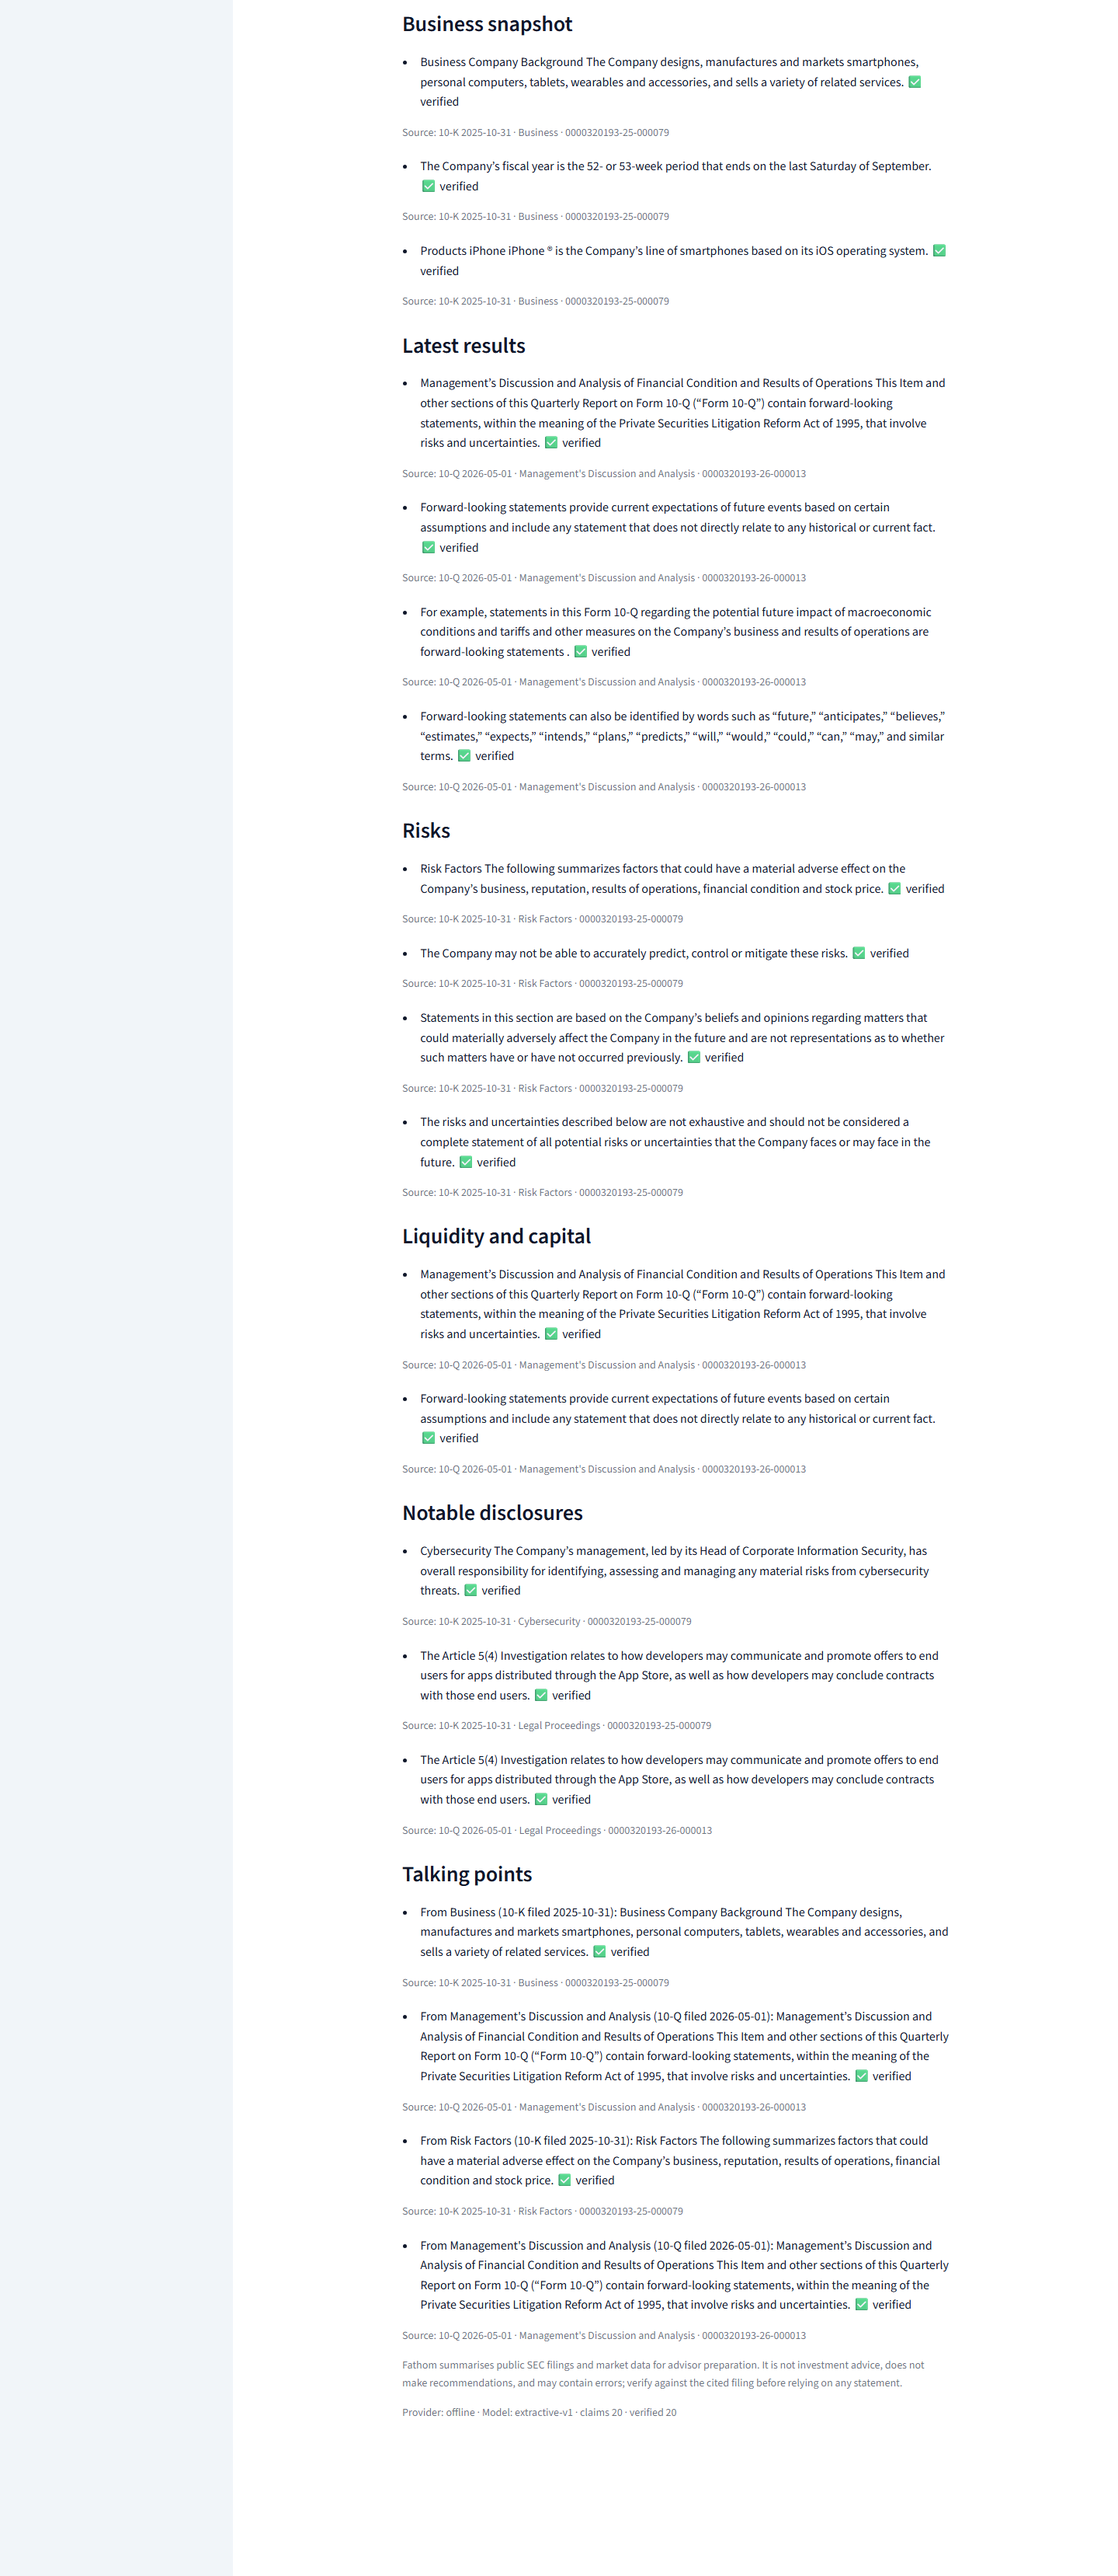
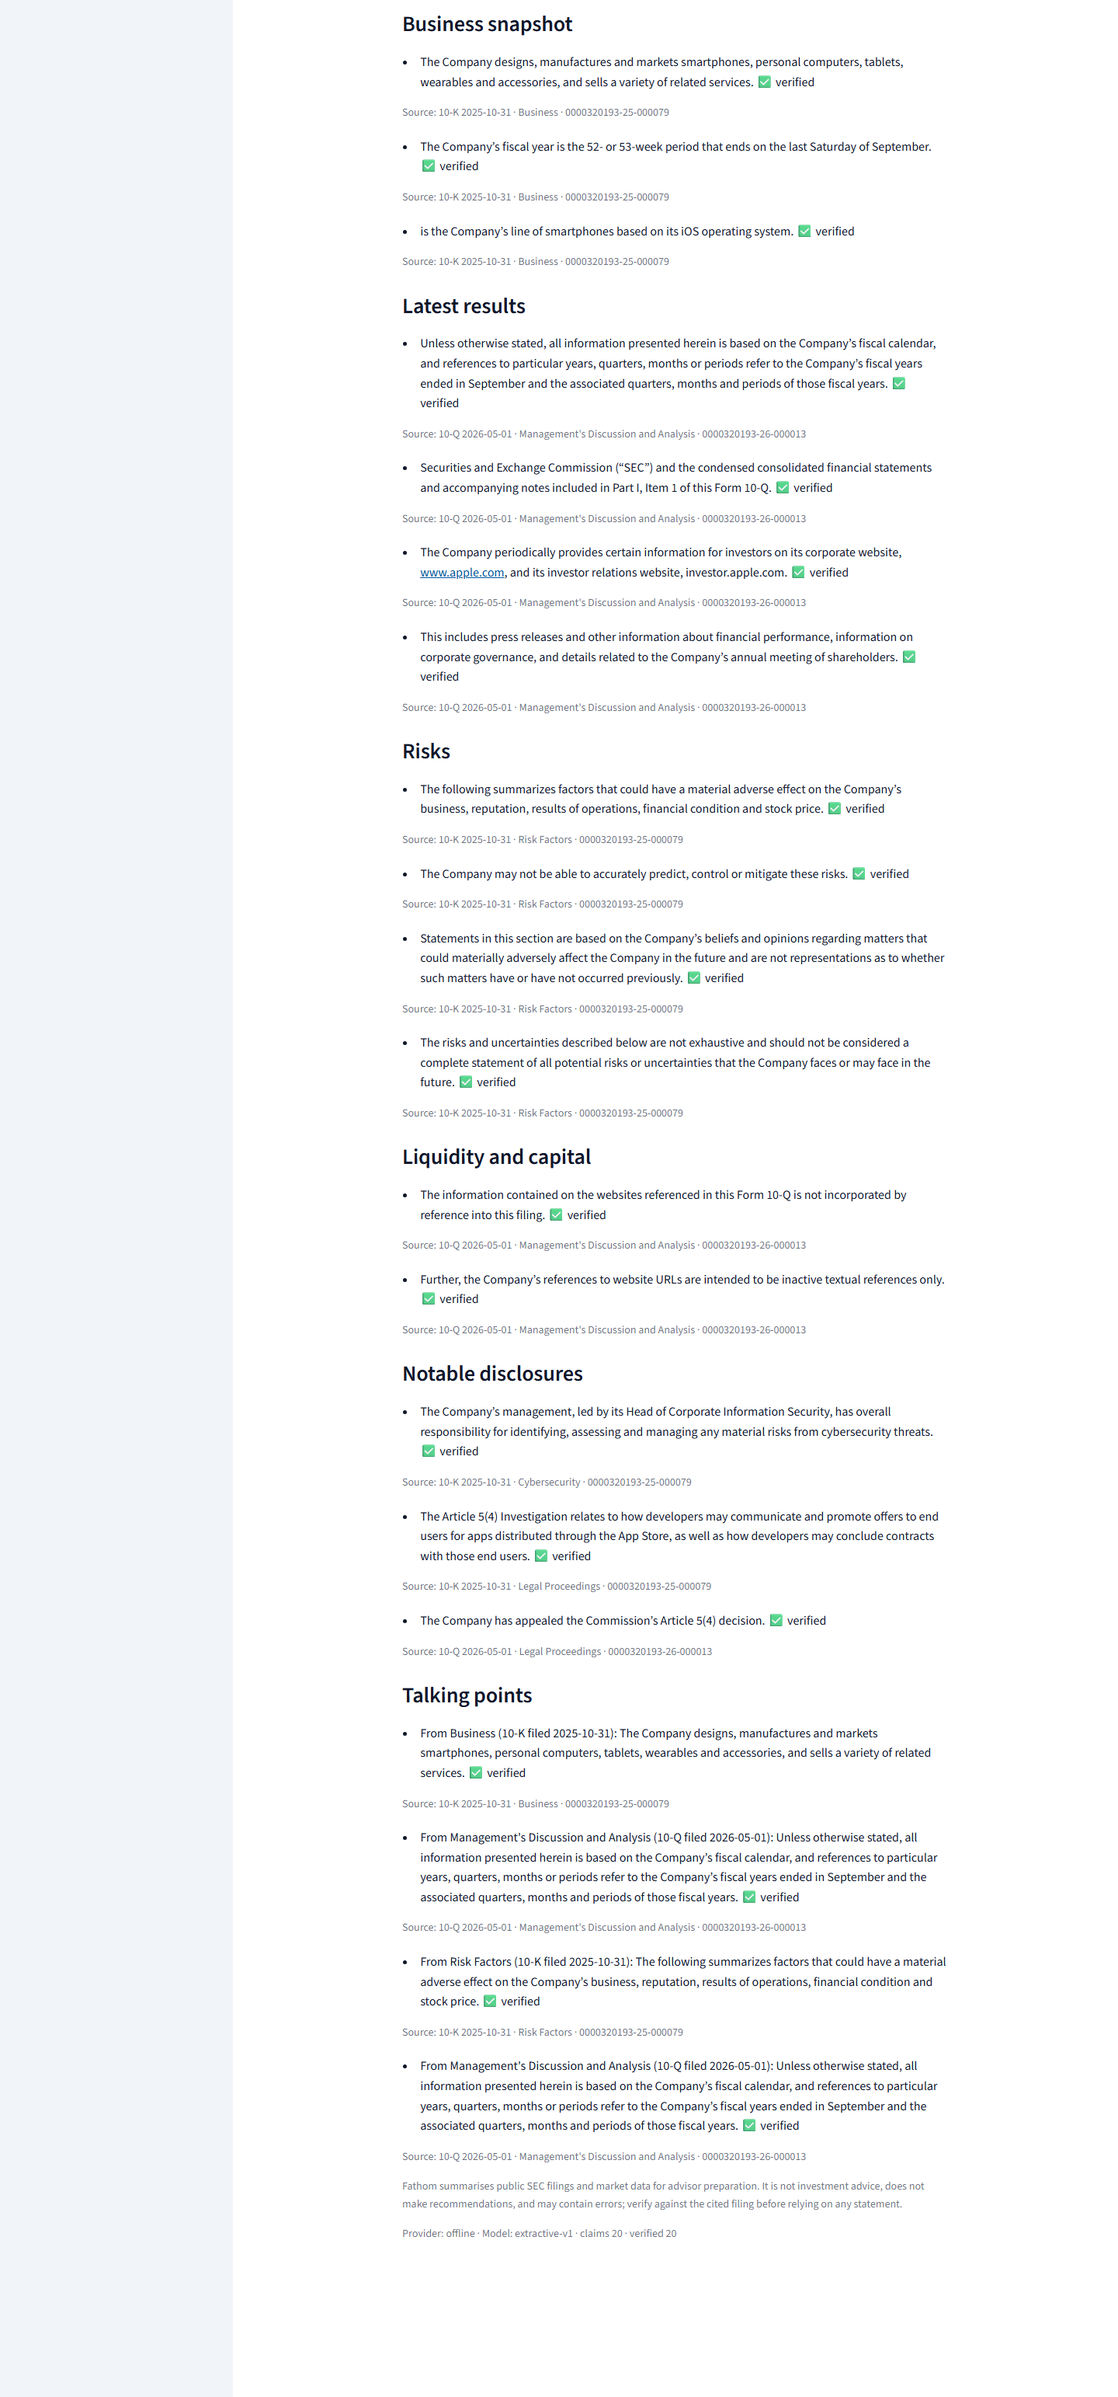
T-011: attempt 3 — final figures, screenshots, doc links

Changed region(s): [[0.3438, 0.0, 0.8438, 0.9335]]

diff --git a/docs/tasks/T-011-docs-screenshots.md b/docs/tasks/T-011-docs-screenshots.md
@@ -82,3 +82,4 @@ equivalent `curl`). Every figure quoted (test count, coverage, KPI table, AAPL q
 came from one of these runs or from `metrics/card.md` / `data/SOURCES.md` verbatim — none invented.
 Not verified or approved by me; over to the Verifier.
 Attempt 2: README.md metrics table latency 36ms->33ms; docs/SHOWCASE.md prose "238 passed, 95.18%" -> "241 passed, 95.22%" and metrics table latency 36ms->33ms; docs/OVERVIEW.md and docs/ASSUMPTIONS.md had no stale gate figures ; gate 241 passed/95.22% coverage
+Attempt 3: regenerated all 5 PNGs (uv run python scripts/screenshots.py) for the six-metric quote card + single source caption and the T-016 offline-briefing wording change; updated docs/SHOWCASE.md prose "241 passed, 95.22%" -> "287 passed, 96.02%", quote-card description (five tiles/per-tile caption -> six tiles/shared caption), briefing status-strip counts "20 claims / 20 verified" -> "18 claims / 18 verified" (re-run `fathom brief AAPL --json`), the `head -c 1500` JSON excerpt (business_snapshot claim text lost its "Business\nCompany Background\n" prefix), the `/api/ask/AAPL` TestClient timestamps, and the screenshot-regeneration size line (138/40/76/415/68 KB); re-verified README.md's and docs/SHOWCASE.md's metrics tables are byte-identical to metrics/card.md; docs/OVERVIEW.md and docs/ASSUMPTIONS.md had no stale gate figures (only carry the KPI values already matching card.md); added README "What's inside" links to docs/assurance-report.md, docs/ops/{runbook,orr,change-record,demo-checklist}.md, docs/pitch/fathom-pitch.pptx (with fathom-pitch.png embedded), and docs/graph/README.md. gate 287/96.02% coverage

diff --git a/README.md b/README.md
@@ -135,6 +135,18 @@ the append-only decision log [`decisions.md`](docs/design/decisions.md). Task pa
 verdicts are under [`docs/tasks/`](docs/tasks/); the hash-chained evidence ledger and per-task
 verification/security records are under [`docs/evidence/`](docs/evidence/).
 
+## What's inside
+
+- [`docs/assurance-report.md`](docs/assurance-report.md) — the assurance report summarising gate results, coverage and residual risk.
+- [`docs/ops/runbook.md`](docs/ops/runbook.md) — the operations runbook for running and recovering the service.
+- [`docs/ops/orr.md`](docs/ops/orr.md) — the operational readiness review.
+- [`docs/ops/change-record.md`](docs/ops/change-record.md) — the change record for this release.
+- [`docs/ops/demo-checklist.md`](docs/ops/demo-checklist.md) — the pre-demo checklist.
+- [`docs/pitch/fathom-pitch.pptx`](docs/pitch/fathom-pitch.pptx) — the one-slide pitch deck.
+
+  ![Pitch slide preview](docs/pitch/fathom-pitch.png)
+- [`docs/graph/README.md`](docs/graph/README.md) — the codebase knowledge graph.
+
 ## How it was built
 
 Fathom was built under the Shipyard lifecycle — frozen design docs gated before implementation,
